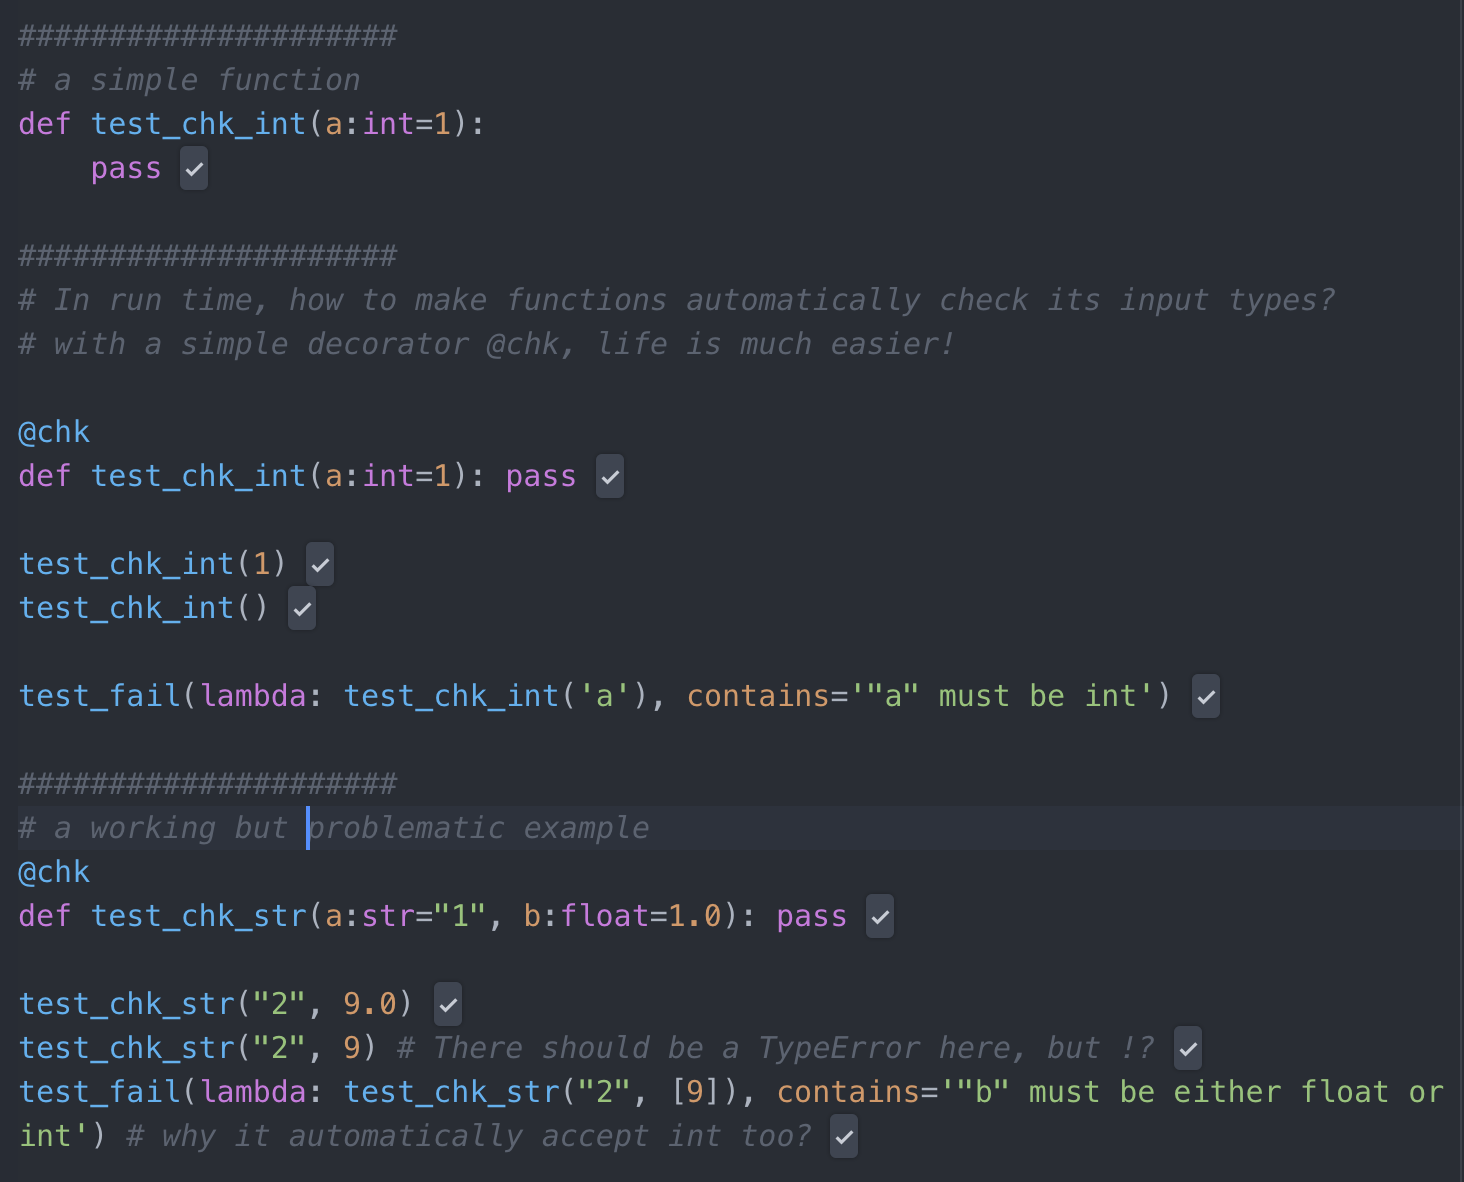
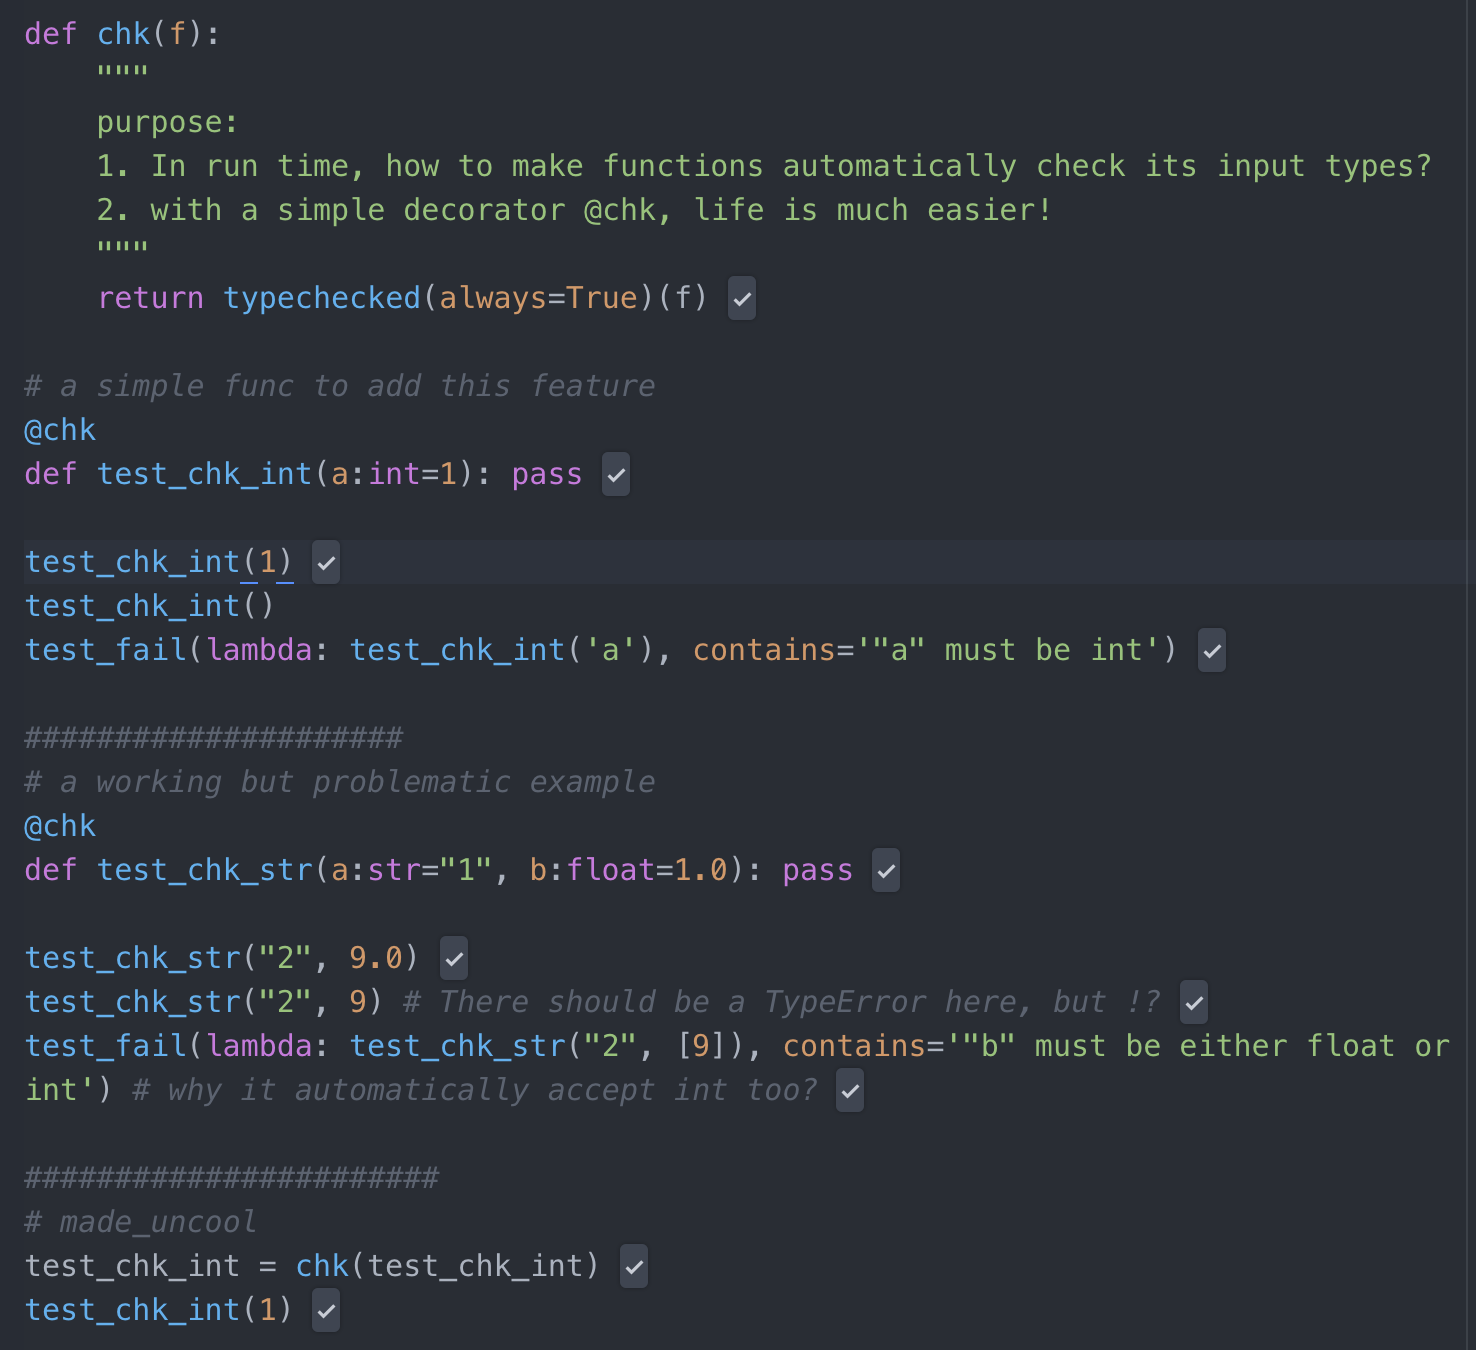
more pics for core up to working_directory

diff --git a/my_workstation/my-v2/core.patch.py b/my_workstation/my-v2/core.patch.py
@@ -4,11 +4,24 @@ from local.notebook.showdoc import show_doc
 
 import copy
 
-#######################
-# create a decorator to automatically add a function to
-# its first parameter Class, when you create a function
 def patch(f):
+    """
     "Decorator: add `f` to the first parameter's class (based on f's type annotations)"
+
+    purpose:
+    1. add another method to an existing class
+        needs going back to class source and add a method
+    2. life would be much easier to write a method/func anywhere and
+        it will automatically add itself to a class
+    3. we want such a feature be ready for any class to add methods
+
+    steps:
+    1. get the class info from func's annotations
+    2. wrap `f` with its own copy `nf`
+    3. set up `nf.__qualname__` by f"{cls.__name__}.{f.__name__}"
+    4. setattr(cls, f.__name__, nf)
+    5. return the `f`
+    """
     cls = next(iter(f.__annotations__.values()))
     nf = copy.copy(f)
     functools.update_wrapper(nf,f)
@@ -20,32 +33,6 @@ def patch(f):
 # a simple class with only __init__ method
 class _T2():
     def __init__(self, o): self.foo = getattr(o,'foo',0) + 1
-
-#######################
-# Wishing a new world where we just define the new function,
-# and it will add onto the class automatically
-def func(x:_T2, a:bool):
-    "test"
-    return a+2
-
-t = _T2(1)
-t.__init__
-test_fail(lambda: t.func, contains= "no attribute 'func'")
-
-########################
-# In this old world, we have to do the following
-class _T2():
-    def __init__(self, o): self.foo = getattr(o,'foo',0) + 1
-
-    # add another function here
-    def func(x:_T2, a:bool):
-        "test"
-        return a+2
-
-t = _T2(1)
-t.__init__
-t.func
-
 
 #######################
 # a simple decorator @patch can make life easier

diff --git a/my_workstation/my-v2/core.newchk.py b/my_workstation/my-v2/core.newchk.py
@@ -5,7 +5,25 @@ from local.notebook.showdoc import show_doc
 ################################
 # create a decorator for class
 def newchk(cls):
+    """
     "Class decorator to avoid recreating object passed to constructor"
+
+    purpose:
+    1. we want class constructor __init__ to be smarter:
+        a. t = cls.__init__(value)
+        b. t = cls.__init__(t)
+    2. in other words, besides creating new instance,
+        it should recognise existing instance and do nothing to it
+    3. we want such smart feature to have easily obtained by any class
+
+    steps
+    1. _inner_new:
+        a. if `x` is instance of `cls`, then mark it '1' and pass it to step 2
+        b. if not instance, mark it '0' and pass a new object to step 2
+    2. _inner_init:
+        a. if mark == 1, return nothing
+        b. if mark == 0, return a new instance of `cls` with args, kwargs
+    """
     old_new,old_init  = cls.__new__,cls.__init__
 
     # to create a new object or return the existing one
@@ -38,31 +56,17 @@ t1 = _T(1)
 t1.foo
 t2 = _T(t1)
 t2.foo
-t1 = _T(1)
-t1 = _T(1)
-#################################
-# decorator with syntatic sugar
-# with a little help
+test_fail(lambda: test_is(t1, t2))
+
 @newchk
 class _T():
     "Testing"
     def __init__(self, o=None): self.foo = getattr(o,'foo',0) + 1
 
-# We can make the world a better place
 t1 = _T(1)
 t1.foo
 t2 = _T(t1)
 t2.foo
-t1 = _T(1)
-t1 = _T(1)
-################################
-# made_uncool
-# apply decorator to the class above
+test_is(t1, t2)
+
 _T = newchk(_T)
-
-t = _T(1)
-# since t is an instance, so just return t rather than create anew
-t2 = _T(t)
-
-#################################
-str(inspect.signature(_T))

diff --git a/my_workstation/my-v2/core.chk.py b/my_workstation/my-v2/core.chk.py
@@ -1,30 +1,21 @@
 from local.test import *
 from local.imports import *
 from local.notebook.showdoc import show_doc
-# from local.core import *
-# ### Type checking
-# Runtime type checking is handy, so let's make it easy!
 
-############
-# important note: f() run inside `typechecked()`
+def chk(f):
+    """
+    purpose:
+    1. In run time, how to make functions automatically check its input types?
+    2. with a simple decorator @chk, life is much easier!
+    """
+    return typechecked(always=True)(f)
 
-def chk(f): return typechecked(always=True)(f)
-
-#####################
-# a simple function
-def test_chk_int(a:int=1):
-    pass
-
-#####################
-# In run time, how to make functions automatically check its input types?
-# with a simple decorator @chk, life is much easier!
-
+# a simple func to add this feature
 @chk
 def test_chk_int(a:int=1): pass
 
 test_chk_int(1)
 test_chk_int()
-
 test_fail(lambda: test_chk_int('a'), contains='"a" must be int')
 
 #####################

diff --git a/my_workstation/my-v2/core.working_directory.py b/my_workstation/my-v2/core.working_directory.py
@@ -1,0 +1,30 @@
+from local.test import *
+from local.imports import *
+from local.notebook.showdoc import show_doc
+from local.core import ls
+
+@contextmanager
+def working_directory(path):
+    """
+    "Change working directory to `path` and return to previous on exit."
+
+    purpose:
+    1. ever want to quickly go to a directory and come back automatically?
+    2. @contextmanager decorator can help make it automatic
+    3. working_directory func will perform the task 
+        a. need to save current working directory
+        b. go to the destination directory
+        c. try something
+        d. go back to previous saved working directory
+    """
+    prev_cwd = Path.cwd()
+    os.chdir(path)
+    try: yield
+    finally: os.chdir(prev_cwd)
+
+pwd
+with working_directory(Path("/Users/Natsume/Documents")):
+    print(os.getcwd())
+    print(Path.cwd()) # you shall see content of the directory above
+
+pwd

diff --git a/my_workstation/my-v2/README.md b/my_workstation/my-v2/README.md
@@ -335,57 +335,53 @@ The remaining ones seem not have widely usage yet.
 ### `newchk`    
 [core.newchk](https://github.com/EmbraceLife/fastai_treasures/blob/master/my_workstation/my-v2/core.newchk.py)
 
-<details><summary>oneliner</summary>
+<details><summary>details</summary>
 <p>
 
-`@newchk`
+<img src="https://github.com/EmbraceLife/fastai_treasures/blob/master/my_workstation/my-v2/images/core.newchk0.png" alt="" width="700"/>
 
-> enable a class to create a new instance (normal)
+<img src="https://github.com/EmbraceLife/fastai_treasures/blob/master/my_workstation/my-v2/images/core.newchk1.png" alt="examples" width="700"/>
 
-> or return the input if the input is already an instance (new feature)   
 
 </p>
 </details>
 
-<details><summary>picsum</summary>
-<p>
-<img src="https://github.com/EmbraceLife/fastai_treasures/blob/master/my_workstation/my-v2/images/core.newchk.png" alt="newchk" width="700"/>
-</p>
-</details>
 
 ### `patch`
 [core.patch](https://github.com/EmbraceLife/fastai_treasures/blob/master/my_workstation/my-v2/core.patch.py)
-<details><summary>oneliner</summary>
-<p>
-enable a function to add itself to the Class of its first parameter
-</p>
-</details>
 
-<details><summary>picsum</summary>
+<details><summary>details</summary>
 <p>
-<img src="https://github.com/EmbraceLife/fastai_treasures/blob/master/my_workstation/my-v2/images/core.patch.png" alt="patch" width="700"/>
+
+<img src="https://github.com/EmbraceLife/fastai_treasures/blob/master/my_workstation/my-v2/images/core.patch0.png" alt="" width="700"/>
+
+<img src="https://github.com/EmbraceLife/fastai_treasures/blob/master/my_workstation/my-v2/images/core.patch1.png" alt="examples" width="700"/>
+
 </p>
 </details>
 
 
 ### `chk`
 [core.chk](https://github.com/EmbraceLife/fastai_treasures/blob/master/my_workstation/my-v2/core.chk.py)
-<details><summary>oneliner</summary>
+
+<details><summary>details</summary>
 <p>
 
-`@chk`
-
-> enable a function to check on its parameters types automatically
-
-> important note: wrapped() run inside `typechecked()`
+<img src="https://github.com/EmbraceLife/fastai_treasures/blob/master/my_workstation/my-v2/images/core.chk.png" alt="patch" width="700"/>
 
 </p>
 </details>
 
-<details><summary>picsum</summary>
+
+### `working_directory`
+
+[core.working_directory](https://github.com/EmbraceLife/fastai_treasures/blob/master/my_workstation/my-v2/core.working_directory.py)
+
+<details><summary>details</summary>
 <p>
 
-<img src="https://github.com/EmbraceLife/fastai_treasures/blob/master/my_workstation/my-v2/images/core.chk.png" alt="patch" width="700"/>
+<img src="https://github.com/EmbraceLife/fastai_treasures/blob/master/my_workstation/my-v2/images/core.working_directory" alt="" width="700"/>
+
 </p>
 </details>
 
